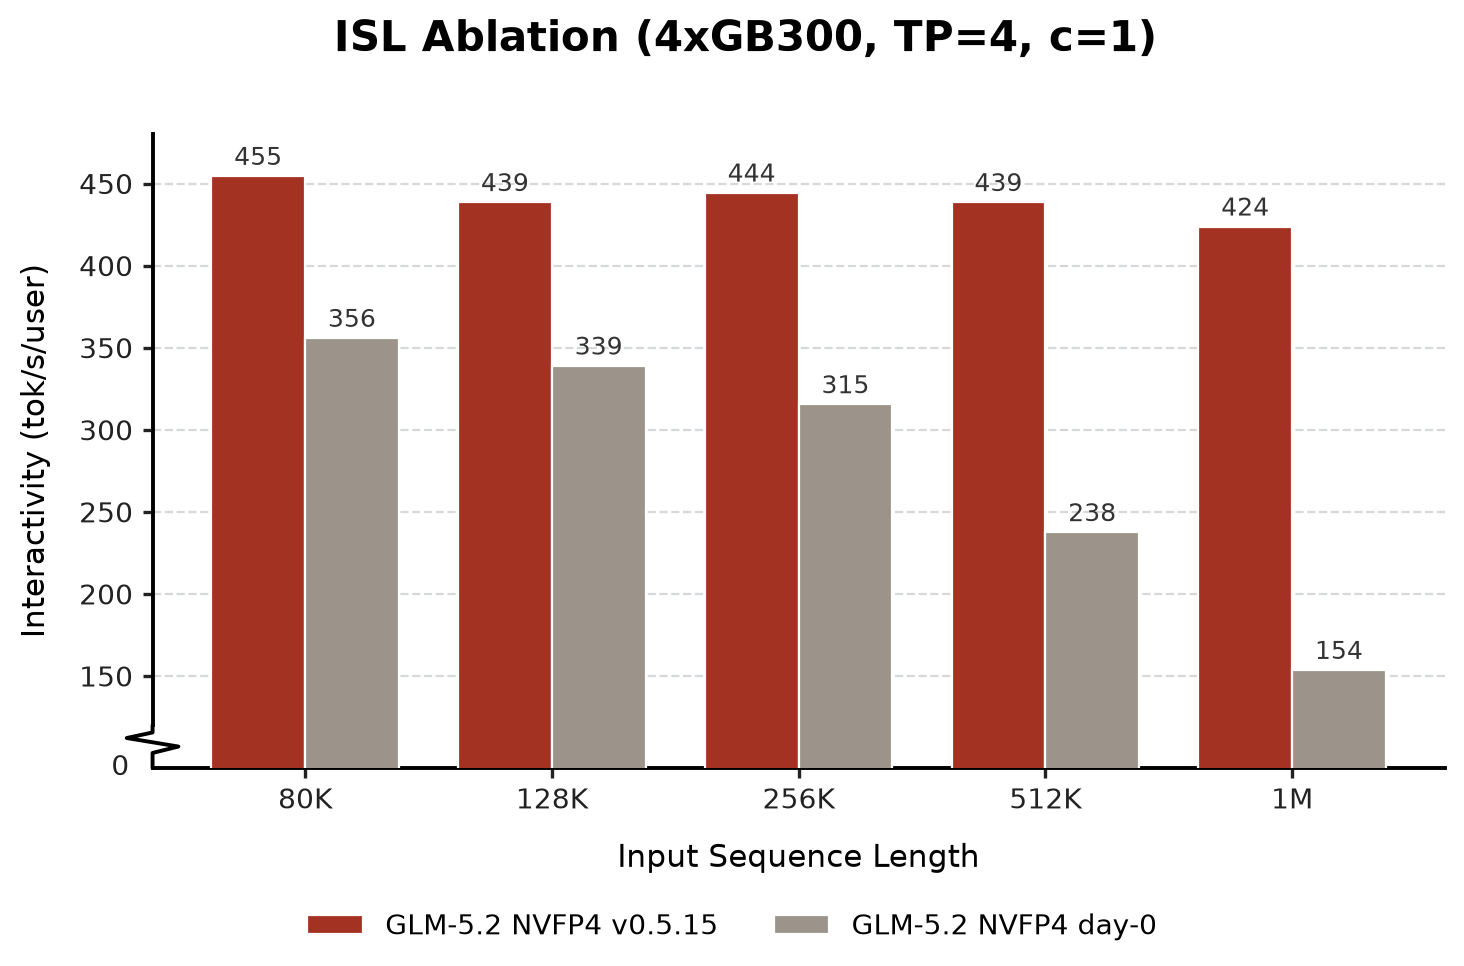
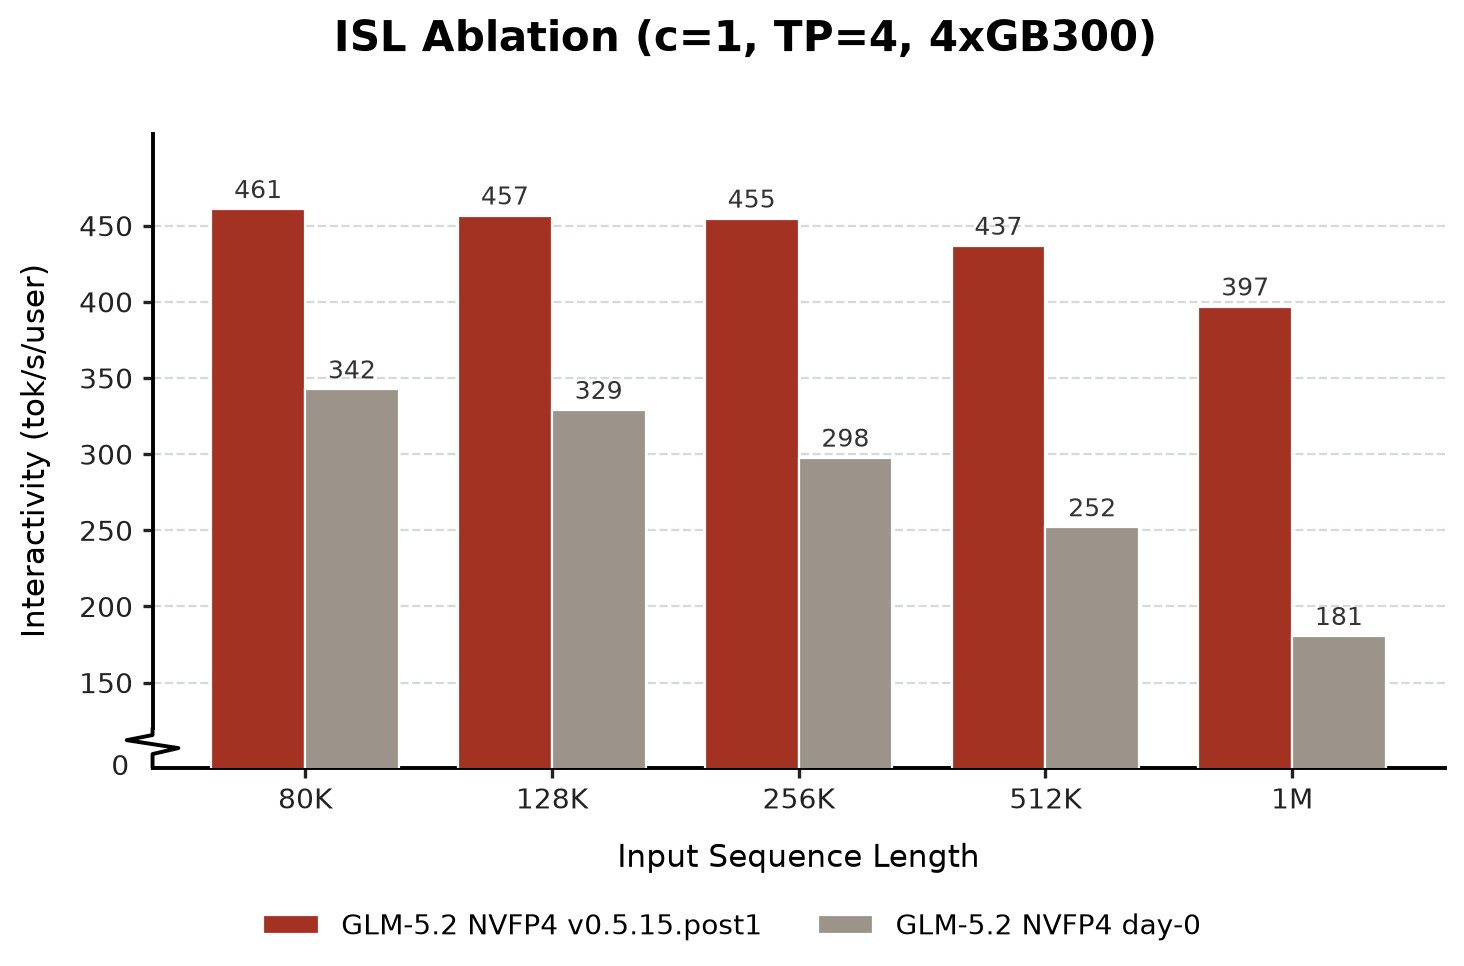
Update GLM blog date and ISL figure

diff --git a/blog/2026-07-13-glm52-optimization.md b/blog/2026-07-13-glm52-optimization.md
@@ -1,7 +1,7 @@
 ---
 title: "Serving GLM5.2 NVFP4 Agentic Workload with SGLang: Reaching 500 TPS in 2 Weeks"
 author: "SGLang Team"
-date: "July 13, 2026"
+date: "July 14, 2026"
 previewImg: /images/blog/glm52-optimization/glm52-nvfp4-day0-vs-v0515-tps.png
 type: blog
 ---